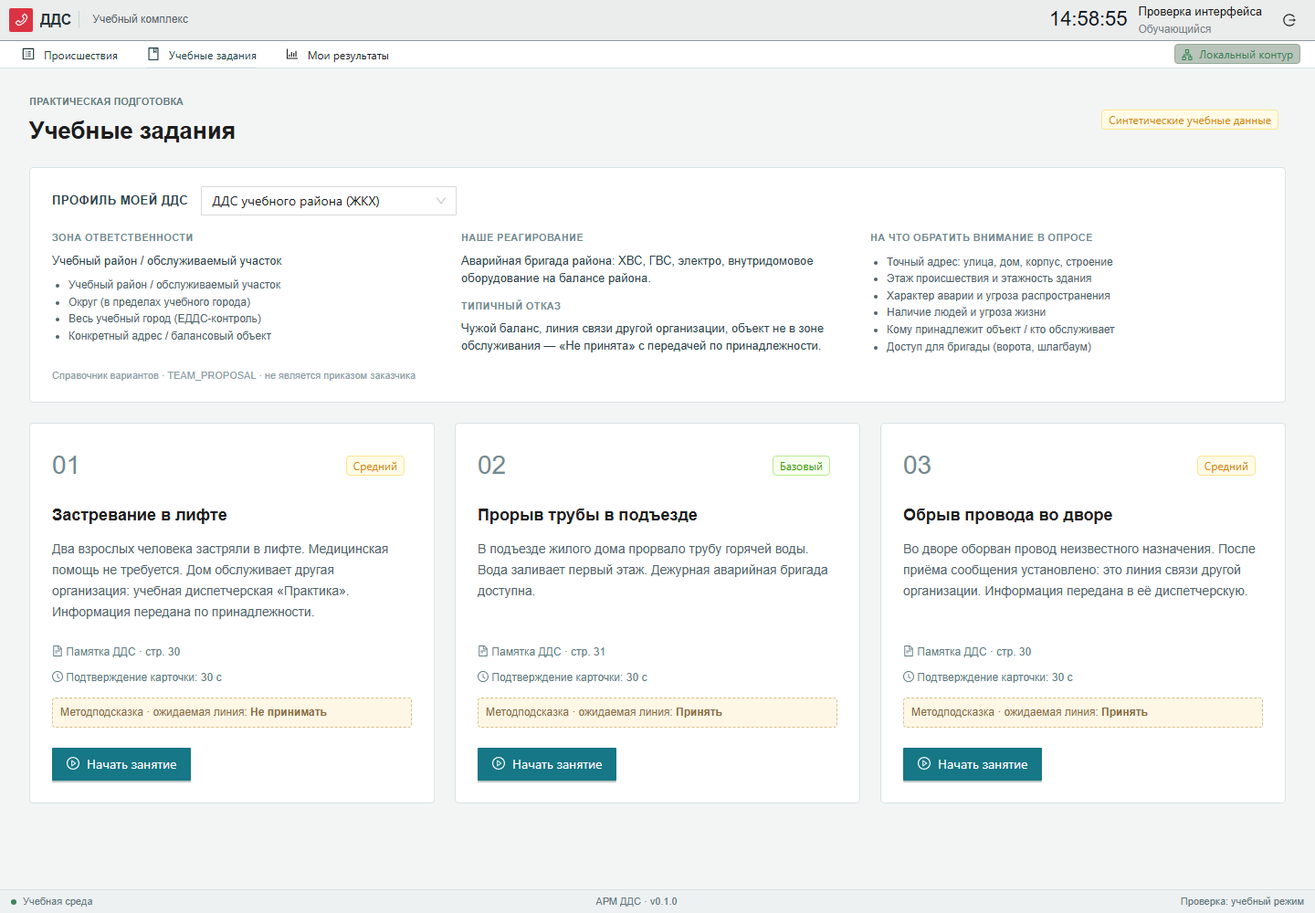
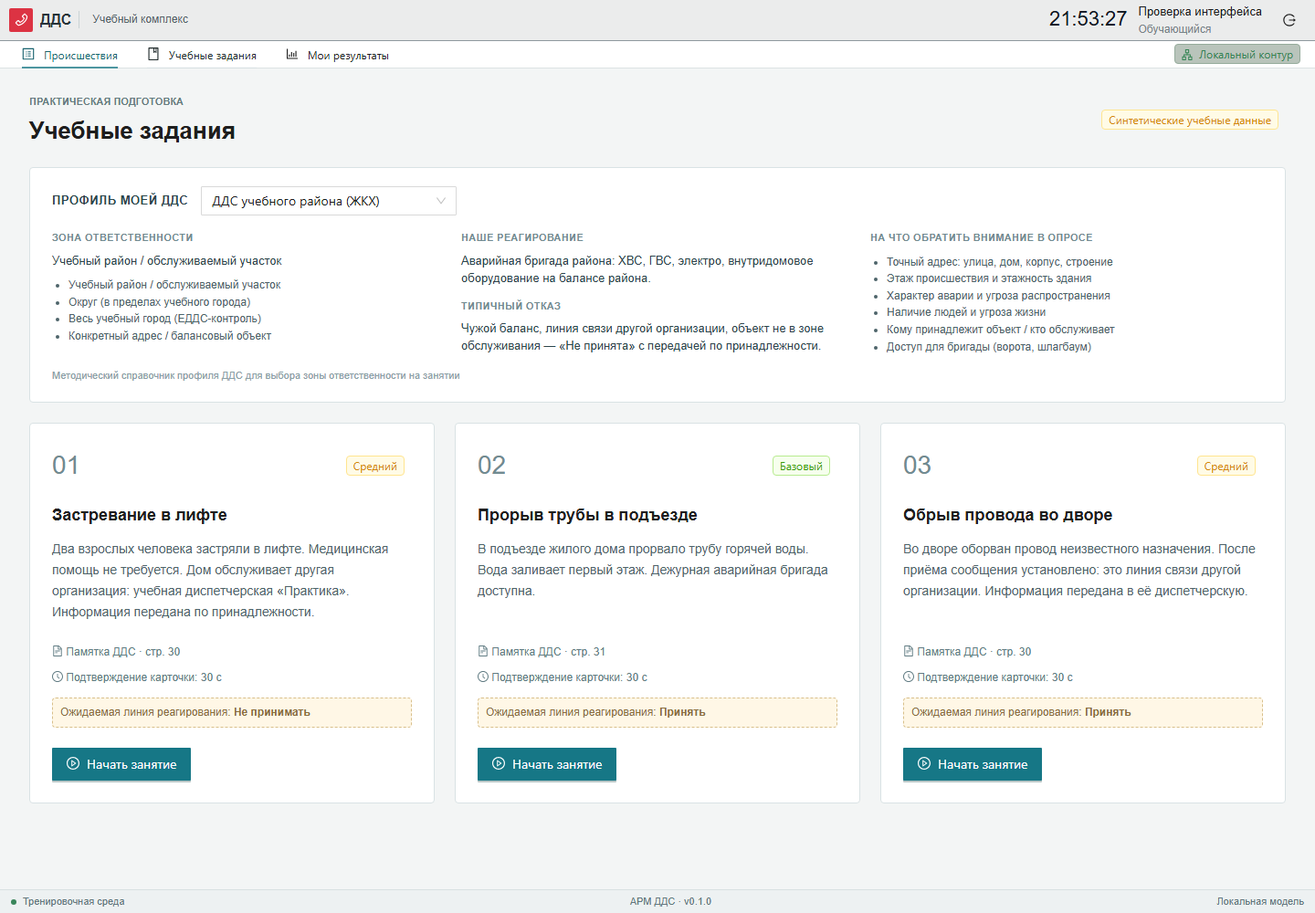
Polish product UI and delivery checklist

diff --git a/frontend/src/workspace.tsx b/frontend/src/workspace.tsx
@@ -394,7 +394,7 @@ export function Workspace() {
                   ? 'Разговор'
                   : callState === 'ring'
                     ? 'Входящий вызов'
-                    : 'Отключение'}
+                    : 'Связь готова'}
               </b>
               {callState === 'answer' && last ? (
                 <span className="timer">
@@ -403,14 +403,14 @@ export function Workspace() {
                 </span>
               ) : null}
               <div className="arm-phone-links">
-                <Tooltip title="Аудиозаписи не подключены">
+                <Tooltip title="Архив звонков зарезервирован для стенда с речевым модулем">
                   <span>
                     <Button size="small" disabled>
                       записи звонков
                     </Button>
                   </span>
                 </Tooltip>
-                <Tooltip title="SMS не подключены">
+                <Tooltip title="Журнал SMS зарезервирован для расширенного канала связи">
                   <span>
                     <Button size="small" disabled>
                       список SMS
@@ -506,7 +506,7 @@ export function Workspace() {
               <small>Фамилия и имя заявителя</small>
               <b>{card.name || 'Не указано'}</b>
               <span className="arm-caller-status">очевидец</span>
-              <Tooltip title="Учебный контур: статусы обращения не подключены. В боевой АРМ здесь выбирают характер обращения заявителя.">
+              <Tooltip title="В тренажёре исходный характер обращения приходит из карточки 112; диспетчер ДДС ведёт статусы реагирования ниже.">
                 <span>
                   <Select
                     className="arm-caller-select"
@@ -517,7 +517,7 @@ export function Workspace() {
                   />
                 </span>
               </Tooltip>
-              <Tooltip title="Учебный контур: итог обращения не подключён. В боевой АРМ здесь фиксируют результат обращения.">
+              <Tooltip title="Итог обращения заявителя относится к карточке 112; результат работы ДДС фиксируется статусом и комментарием службы.">
                 <span>
                   <Select
                     className="arm-caller-select"
@@ -535,7 +535,7 @@ export function Workspace() {
                   <small>Адрес:</small>
                   <b>{card.address}</b>
                 </div>
-                <Tooltip title={panel === 'map' ? null : 'Открыть учебную карту адреса'}>
+                <Tooltip title={panel === 'map' ? null : 'Открыть локальную карту адреса'}>
                   <Button
                     aria-label="Открыть карту"
                     size="small"
@@ -576,21 +576,21 @@ export function Workspace() {
               <span className="arm-flag-text">Пострадавшие: нет</span>
               <span className="arm-flag-text">Отказ от скорой: нет</span>
               <span className="arm-flag-text">Заблокированные: нет</span>
-              <Tooltip title="Учебный контур: признак ЧС не передаётся API. В боевой АРМ признак повышает приоритет карточки в ЕДДС.">
+              <Tooltip title="Признак ЧС используется как приоритетная отметка карточки и учитывается при разборе занятия.">
                 <span>
                   <Button disabled icon={<ThunderboltOutlined />}>
                     ЧС
                   </Button>
                 </span>
               </Tooltip>
-              <Tooltip title="Учебный контур: признак ЧП не передаётся API. В боевой АРМ признак помечает происшествие как чрезвычайное.">
+              <Tooltip title="Признак ЧП показывает повышенный приоритет и помогает отработать порядок реагирования.">
                 <span>
                   <Button disabled className="arm-flag-emergency" icon={<WarningOutlined />}>
                     ЧП
                   </Button>
                 </span>
               </Tooltip>
-              <Tooltip title="Учебный контур: редактирование признаков не подключено">
+              <Tooltip title="Изменение признаков выполняется через сценарий и проверяется преподавателем">
                 <span>
                   <Button disabled aria-label="Редактировать признаки" icon={<EditOutlined />} />
                 </span>
@@ -610,7 +610,7 @@ export function Workspace() {
               <b>{card.incident_type} ;</b>
             </div>
             <div className="arm-field">
-              <Tooltip title="Классификация внешней информационной системы не подключена">
+              <Tooltip title="Данные внешней информационной системы отображаются при наличии в карточке">
                 <span>
                   <small>[ВИС] Класс.</small>
                   нет данных
@@ -618,9 +618,9 @@ export function Workspace() {
               </Tooltip>
             </div>
             <div className="arm-field arm-training-note">
-              <small>Учебное расширение</small>
+              <small>Методический блок</small>
               ДДС фиксирует статусы и комментарии; исходная карта заявителя остаётся зоной 112.
-              Подсказки и результаты доступны через «?».
+              Сведения о занятии и источниках доступны через «?».
             </div>
           </section>
         </div>
@@ -694,7 +694,7 @@ export function Workspace() {
           <>
             <Alert
               type="info"
-              message="Справочник возможных получателей. Для ДДС бригады выбираются вручную по району обслуживания и подчинённости; фактическая передача другим службам не выполняется."
+              message="Справочник возможных получателей. Для ДДС бригады выбираются вручную по району обслуживания и подчинённости; выбранная линия реагирования фиксируется в журнале занятия."
             />
             <Table
               size="small"
@@ -756,7 +756,8 @@ export function Workspace() {
                       Вызов, ответ и завершение фиксируются в журнале. В MVP телефонная эмуляция
                       представляет связь ДДС с руководителем/старшим группы реагирования; при
                       необходимости диспетчер может связаться с заявителем по номеру из карточки, но
-                      это не основной маршрут MVP. Реальные звонки, аудиозаписи и SMS не подключены.
+                      это не основной маршрут MVP. Голосовой канал представлен программной эмуляцией,
+                      архив аудио и SMS вынесены в расширение стенда.
                     </p>
                     <p className="muted">
                       Памятка АРМ-112 для ДДС, стр. 21–26, 32. Учебные пояснения дополняют рабочее

diff --git a/frontend/src/arm/MapPanel.tsx b/frontend/src/arm/MapPanel.tsx
@@ -576,7 +576,6 @@ function MoscowGisMap({ address, point, onFallback }: GisMapProps) {
         }, 400);
         map.on('error', (event) => {
           const message = String((event as { error?: { message?: string } }).error?.message ?? '');
-          console.debug('[dds-map]', message);
           if (/style|source|protocol|Failed to fetch|NetworkError|pmtiles|tile/i.test(message)) {
             fail();
           }
@@ -649,8 +648,8 @@ export function MapPanel({ address }: { address: string }) {
         message="Локальная карта Москвы"
         description={
           gis
-            ? 'Загружен локальный OSM-пакет Москвы (PMTiles). Точка, база и линия маршрута условные: точное определение координат по адресу не подключено.'
-            : 'Отображается учебная схема Москвы. Точка, база и линия маршрута условные: точное определение координат по адресу не подключено.'
+            ? 'Загружен локальный OSM-пакет Москвы (PMTiles). Точка, база и линия маршрута рассчитываются по учебному правилу адресации для закрытого стенда.'
+            : 'Отображается учебная схема Москвы. Точка, база и линия маршрута рассчитываются по учебному правилу адресации для закрытого стенда.'
         }
       />
       <div
@@ -727,11 +726,11 @@ export function MapPanel({ address }: { address: string }) {
       </div>
       <div className="arm-map-card">
         <b>
-          <EnvironmentOutlined /> Условная учебная точка
+          <EnvironmentOutlined /> Точка происшествия
         </b>
         <span>{address || 'Адрес будет подставлен из карточки'}</span>
         <small>
-          Учебная зона: {point.district}; условная база: {point.serviceBase.name}. Данные не
+          Зона: {point.district}; базовая служба: {point.serviceBase.name}. Данные не
           покидают локальный контур.
         </small>
       </div>

diff --git a/frontend/src/arm/ServiceDock.tsx b/frontend/src/arm/ServiceDock.tsx
@@ -102,17 +102,17 @@ export function ServiceDock({ card, own, locked, busy, onReact, onRoutes, onHist
           </div>
         </div>
         {referenceServices.map((name) => (
-          <Tooltip title="Справочник возможных получателей по району обслуживания и подчинённости. Для ДДС бригады выбираются вручную; оповещение другой службе не отправляется.">
+          <Tooltip title="Справочник возможных получателей по району обслуживания и подчинённости. Для ДДС бригады выбираются вручную и фиксируются в журнале занятия.">
             <div className="arm-service-tile arm-service-reference" key={name}>
               <button type="button" aria-label={'Справочная служба ' + name} onClick={onRoutes}>
                 {name}
               </button>
-              <span>ручной выбор · без оповещения</span>
+              <span>ручной выбор · по принадлежности</span>
             </div>
           </Tooltip>
         ))}
         <div className="arm-service-tools">
-          <Tooltip title="Справочник служб по району/подчинённости и условия классификатора (без фактического оповещения)">
+          <Tooltip title="Справочник служб по району, подчинённости и условиям классификатора">
             <Button
               aria-label="Справочник маршрутов"
               icon={<UnorderedListOutlined />}

diff --git a/frontend/src/domain/ddsProfiles.ts b/frontend/src/domain/ddsProfiles.ts
@@ -1,7 +1,7 @@
 /**
  * Профили учебных ДДС и зоны ответственности.
- * Метка: TEAM_PROPOSAL (каталог вариантов). Рамка зон — ПП 1931 + методрекомендации.
- * Не является утверждённым приказом заказчика.
+ * Методический каталог вариантов. Рамка зон — ПП 1931 + методрекомендации.
+ * Используется для тренировки выбора зоны ответственности ДДС.
  */
 
 export type DdsProfile = {
@@ -185,6 +185,6 @@ export const ALL_OUTCOMES: { phase: string; outcome: string }[] = [
   { phase: 'Уточнение', outcome: 'Обрыв связи: ≥3 попытки, ≤10 с на инициирование' },
   { phase: 'Консультация', outcome: 'Без выезда, ≤2 мин, завершение' },
   { phase: 'Мультислужба', outcome: 'Справочно: оповещение по ЕКП; снятие с контроля — после всех ДДС' },
-  { phase: 'Оценка', outcome: 'mock / local / fallback / partial → замечания + преподаватель' },
+  { phase: 'Оценка', outcome: 'автоматическая проверка → замечания + преподаватель' },
   { phase: 'Оценка', outcome: 'score=null, пока методика не утверждена' },
 ];

diff --git a/frontend/src/App.tsx b/frontend/src/App.tsx
@@ -167,7 +167,7 @@ function Shell() {
           banner
           showIcon
           type="warning"
-          message="ML-модуль недоступен. Учебные занятия работают с резервной проверкой."
+          message="Автоматическая проверка работает в резервном режиме. Учебные занятия доступны."
         />
       ) : null}
       <main className="main-content">
@@ -187,15 +187,15 @@ function Shell() {
       <footer className="statusbar">
         <span>
           <span className="status-dot" />
-          Учебная среда
+          Тренировочная среда
         </span>
         <span>АРМ ДДС · v0.1.0</span>
         <span>
           {ml?.mode === 'local'
-            ? 'Локальный ML'
+            ? 'Локальная модель'
             : ml?.mode === 'fallback'
-              ? 'Резервная проверка'
-              : 'Проверка: учебный режим'}
+              ? 'Резервный алгоритм'
+              : 'Проверка: базовый режим'}
         </span>
       </footer>
     </Layout>

diff --git a/frontend/src/pages.tsx b/frontend/src/pages.tsx
@@ -436,7 +436,7 @@ export function Training() {
           </div>
         ) : null}
         <div className="profile-band__note">
-          Справочник вариантов · TEAM_PROPOSAL · не является приказом заказчика
+          Методический справочник профиля ДДС для выбора зоны ответственности на занятии
         </div>
       </section>
       {error ? <ErrorPanel error={error} retry={refetch} /> : null}
@@ -463,7 +463,7 @@ export function Training() {
               </div>
               {s.expected_hint ? (
                 <div className="scenario-meta scenario-hint" data-testid="scenario-expected-hint">
-                  Методподсказка · ожидаемая линия: <b>{s.expected_hint}</b>
+                  Ожидаемая линия реагирования: <b>{s.expected_hint}</b>
                 </div>
               ) : null}
               <Button

diff --git a/frontend/tests/arm.spec.ts b/frontend/tests/arm.spec.ts
@@ -91,9 +91,7 @@ test('ARM source layout, service history and training context remain accessible'
   await page.getByRole('button', { name: 'Открыть карту', exact: true }).click();
   await expect(page.getByTestId('arm-map-panel')).toBeVisible();
   await expect(page.getByText('Локальная карта Москвы', { exact: true })).toBeVisible();
-  await expect(
-    page.getByText(/точное определение координат по адресу не подключено/),
-  ).toBeVisible();
+  await expect(page.getByText(/учебному правилу адресации/)).toBeVisible();
   await expect(page.getByTestId('arm-offline-map')).toBeVisible();
   await expect(
     page.getByRole('button', { name: 'локальный OSM-слой', exact: true }),

diff --git a/frontend/tests/map-gis.spec.ts b/frontend/tests/map-gis.spec.ts
@@ -77,7 +77,7 @@ test('offline GIS map loads local Moscow PMTiles pack with ODbL attribution', as
     animations: 'disabled',
   });
   await page.locator('.arm-map-card').scrollIntoViewIfNeeded();
-  await expect(page.getByText('Условная учебная точка', { exact: true })).toBeInViewport();
+  await expect(page.getByText('Точка происшествия', { exact: true })).toBeInViewport();
   await page.screenshot({
     path: `../docs/images/map-gis-caption-${test.info().project.name}.png`,
     animations: 'disabled',

diff --git a/docs/FINAL_DELIVERY_CHECKLIST.ru.md b/docs/FINAL_DELIVERY_CHECKLIST.ru.md
@@ -1,0 +1,66 @@
+# Финальный чеклист сдачи
+
+Документ предназначен для последней проверки перед передачей ссылки на репозиторий и материалы жюри. Он фиксирует практический порядок действий, а не расширяет состав реализованных функций.
+
+## Что должно быть доступно проверяющему
+
+| Материал | Где лежит |
+|---|---|
+| Репозиторий | `https://github.com/DanK1-PRO/Hakaton-2026` |
+| Быстрый запуск | `README.md`, раздел «Быстрый запуск» |
+| Развёртывание на чистой машине или виртуалке | `docs/DEPLOYMENT.md` |
+| Маршрут демонстрации | `docs/DEMO.md` |
+| Архитектура | `docs/architecture.md` |
+| Проверки | `docs/VERIFICATION.md` |
+| Границы готовности | `docs/FINAL_INTEGRATION_AUDIT.ru.md` |
+| Локальная ML-модель | `docs/LOCAL_ML_RUN.ru.md` и GitHub release `modelURL` |
+
+## Проверка на чистой машине / виртуальной машине
+
+Основной путь для проверяющего — Docker Compose:
+
+```bash
+git clone https://github.com/DanK1-PRO/Hakaton-2026.git
+cd Hakaton-2026
+python scripts/init_local.py
+docker compose up --build -d --wait
+```
+
+Открыть:
+
+- UI: `http://localhost:8080`
+- API/Swagger: `http://localhost:8000/docs`
+- Health: `http://localhost:8000/health`
+
+Нативный Windows-запуск без Docker описан в `docs/DEPLOYMENT.md`. Он создаёт `.venv`, локальный PostgreSQL в `.runtime`, API на `127.0.0.1:8000` и UI на `127.0.0.1:5173`.
+
+## Демо-учётные записи
+
+| Роль | Логин | Пароль по умолчанию |
+|---|---|---|
+| Обучающийся | `trainee@dds.local` | `DdsDemo2026!` |
+| Преподаватель | `instructor@dds.local` | `DdsDemo2026!` |
+| Администратор | `administrator@dds.local` | `DdsDemo2026!` |
+
+Перед публичным доступом пароль задаётся через `DEMO_PASSWORD` до первичного seed. Для локальной проверки допустим пароль по умолчанию.
+
+## Что показать за 3-5 минут
+
+1. Войти как обучающийся.
+2. Открыть «Учебные задания» и запустить сценарий.
+3. В карточке показать АРМ-подобный интерфейс: адрес, классификацию, службы, карту и связь.
+4. Поставить статус «Принята», затем пройти реагирование до «Работы завершены» с комментарием.
+5. Завершить занятие и показать результат автоматической проверки.
+6. Войти как преподаватель, открыть «Контроль занятий» и добавить заключение.
+
+## Перед отправкой формы
+
+- Проверить, что репозиторий открыт жюри или выдан гостевой доступ.
+- Проверить, что ссылки на презентацию, скринкаст и дополнительные материалы доступны «по ссылке».
+- Зафиксировать commit SHA сдаваемой версии.
+- Зафиксировать версию release модели `modelURL`, если демонстрируется локальная ML-проверка.
+- Не изменять сданные ссылки, презентации, документацию и код после стоп-кода.
+
+## Честные границы версии
+
+Система является локальным учебным контуром. Она не выполняет реальные вызовы в 112/ДДС, не является сертифицированной боевой АРМ, не содержит автоматического дообучения модели и не заявляет официальную методику балльной оценки. Эти ограничения отражены в `docs/FINAL_INTEGRATION_AUDIT.ru.md`.

diff --git a/docs/VERIFICATION.md b/docs/VERIFICATION.md
@@ -1,5 +1,27 @@
 # Протокол Проверки
 
+## 28.09.2026 — предпросмотр продукта перед сдачей
+
+Цель прохода: убрать из пользовательского интерфейса разработческие формулировки
+(`API`, `mock/fallback`, `TEAM_PROPOSAL`, «не подключено») там, где они выглядели
+как дефекты продукта, и заменить их демонстрационными статусами тренажёра. Логика
+API, БД, ML boundary и offline GIS не расширялась.
+
+| Проверка | Фактический результат |
+|---|---|
+| `rg` по dev-подсказкам в `frontend/src` | Видимых пользовательских `TEAM_PROPOSAL`, `Методподсказка`, `не подключено`, `не передаётся API`, `console.debug` не осталось |
+| `ruff check backend ml scripts` | Passed |
+| `pytest backend/tests -q` | 34 passed; 2 upstream warnings |
+| `npm run build` (frontend) | Passed; сохраняется предупреждение Vite о крупных MapLibre/vendor chunks |
+| `npm test` (frontend) | 22 passed, desktop + mobile; screenshots обновлены в `docs/images` |
+| Локальный health | API `status=ok`, `database=ok`, `ml_mode=local`; UI HTTP 200 |
+
+Добавлен [финальный чеклист сдачи](FINAL_DELIVERY_CHECKLIST.ru.md): запуск на чистой
+машине/виртуалке, демо-учётные записи, маршрут показа и действия перед стоп-кодом.
+Честные ограничения версии сохранены: это локальный учебный контур без реальных
+вызовов, сертификации боевой АРМ, автоматического дообучения и утверждённой
+официальной балльной методики.
+
 ## 28.09.2026 — финальный интеграционный проход Astra
 
 Этот раздел описывает текущую сборку; сведения ниже сохранены как история.

diff --git a/docs/ai/PROJECT_STATE.md b/docs/ai/PROJECT_STATE.md
@@ -1,6 +1,21 @@
 # Project State
 
-## Current checkpoint: 2026-09-28 final integration pass
+## Current checkpoint: 2026-09-28 product delivery cleanup
+
+The product-facing cleanup pass removed development wording from visible UI labels and
+tooltips: no user-visible `TEAM_PROPOSAL`, `Методподсказка`, `не подключено`,
+`не передаётся API` or map `console.debug` remains in `frontend/src`. The ARM screen,
+service dock, map panel, training profile and footer now describe the simulator as a
+closed training product rather than unfinished wiring. Added
+`docs/FINAL_DELIVERY_CHECKLIST.ru.md` and linked it from README, docs index and submission
+packet so reviewers can launch the repository on Docker or a clean Windows/native VM.
+Verification after this cleanup: Ruff passed, backend pytest 34/34 passed, frontend
+production build passed, Playwright 22/22 desktop+mobile passed, local API health returned
+`status=ok`, `database=ok`, `ml_mode=local`, and UI returned HTTP 200. Screenshots in
+`docs/images` were refreshed by the browser suite. Do not reopen branch merges or ML
+integration unless Danil asks for a new feature pass.
+
+## Previous checkpoint: 2026-09-28 final integration pass
 
 Current branch is main. Published application revision: c55103c36751aa2a31da33bfd8a29574c3304e68.
 GitHub CI 36462902808 passed both verify and containers. Final report-only commit

diff --git a/docs/INDEX.md b/docs/INDEX.md
@@ -5,6 +5,7 @@
 | [Финальный аудит](FINAL_INTEGRATION_AUDIT.ru.md) | Исправленные UI/API/ML стыки и остаточные ограничения |
 | [Реальная локальная ML](LOCAL_ML_RUN.ru.md) | Подготовка GGUF, отдельное окружение, запуск и импорт заданий |
 | [Комплект сдачи](SUBMISSION.ru.md) | Ссылки, права доступа и стоп-код |
+| [Финальный чеклист сдачи](FINAL_DELIVERY_CHECKLIST.ru.md) | Запуск на чистой машине/виртуалке, демо-учётки и действия перед отправкой |
 | [Ведомость](DOCUMENT_REGISTER.md) | Состав, статусы, нормативная ориентация |
 | [Архитектура](architecture.md) | Компоненты, хранение, отказы |
 | [Развёртывание](DEPLOYMENT.md) | Docker, Windows, настройки |
